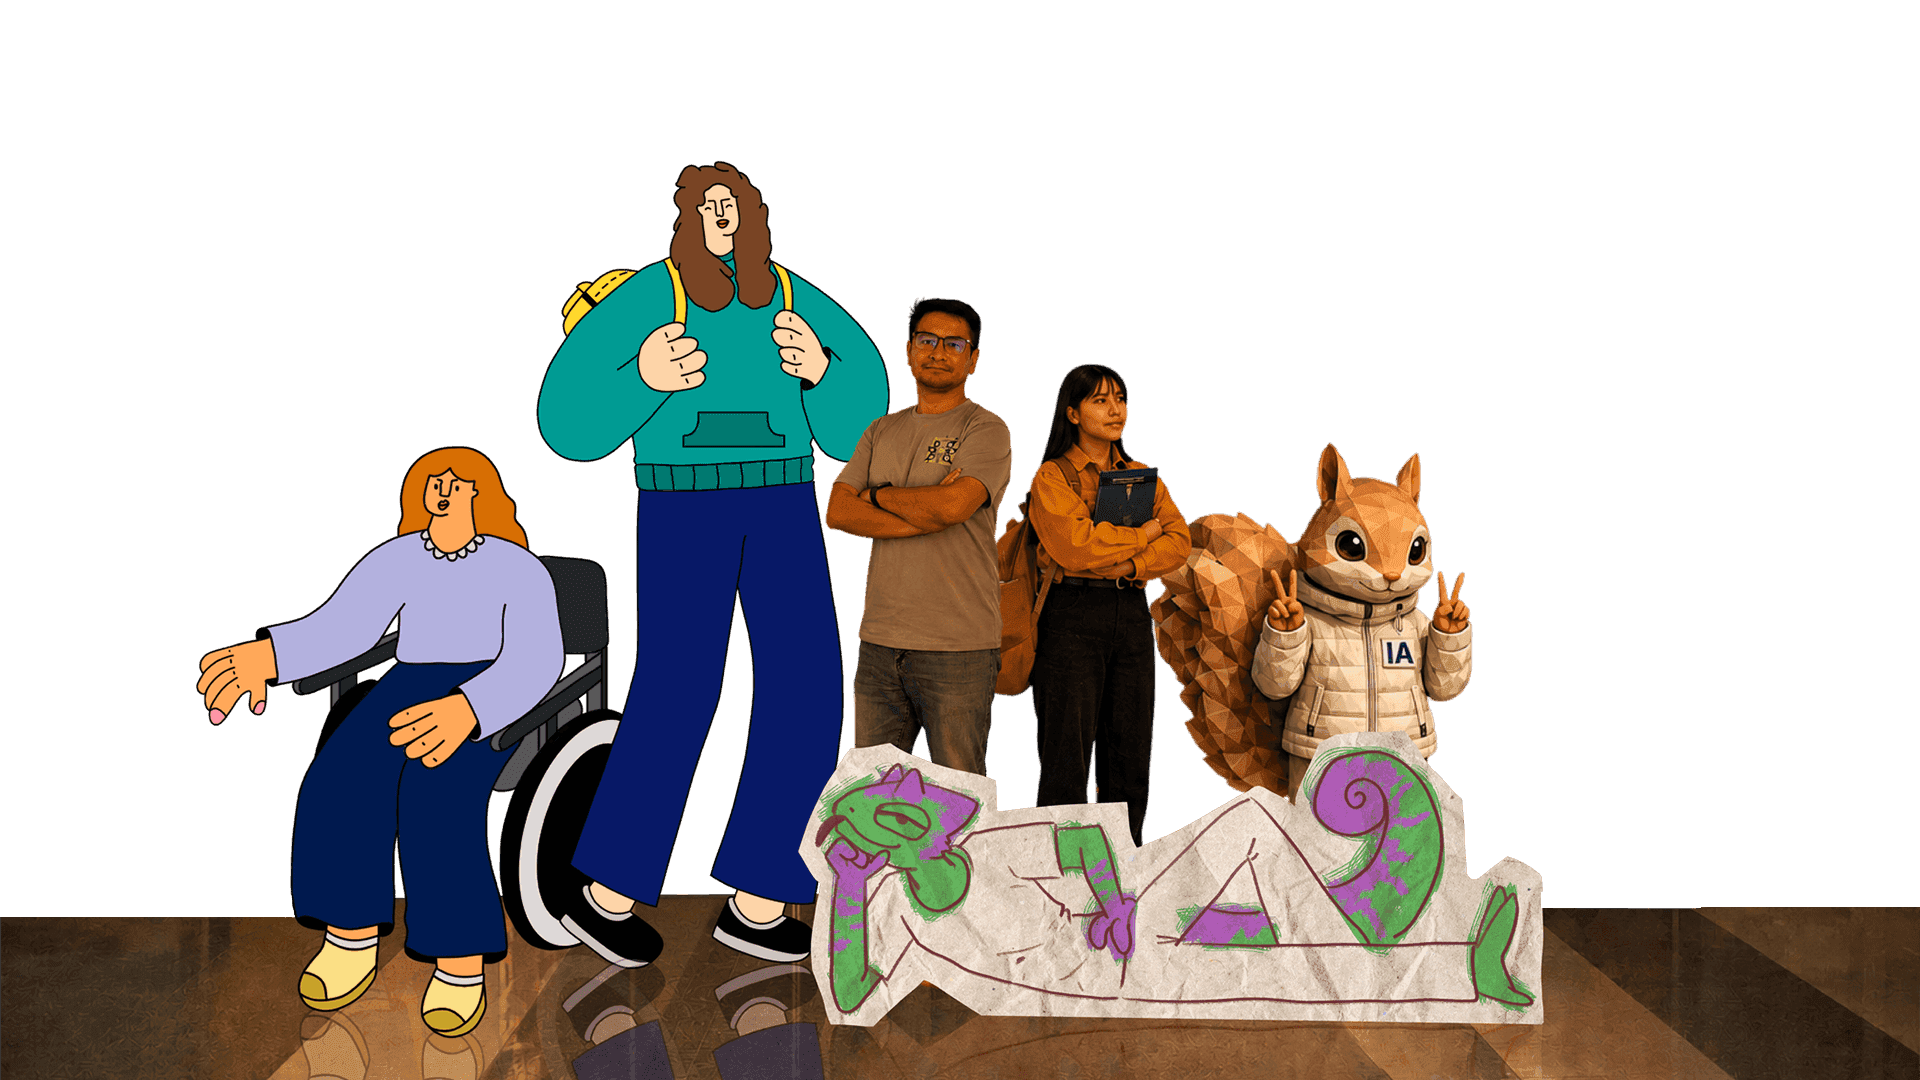
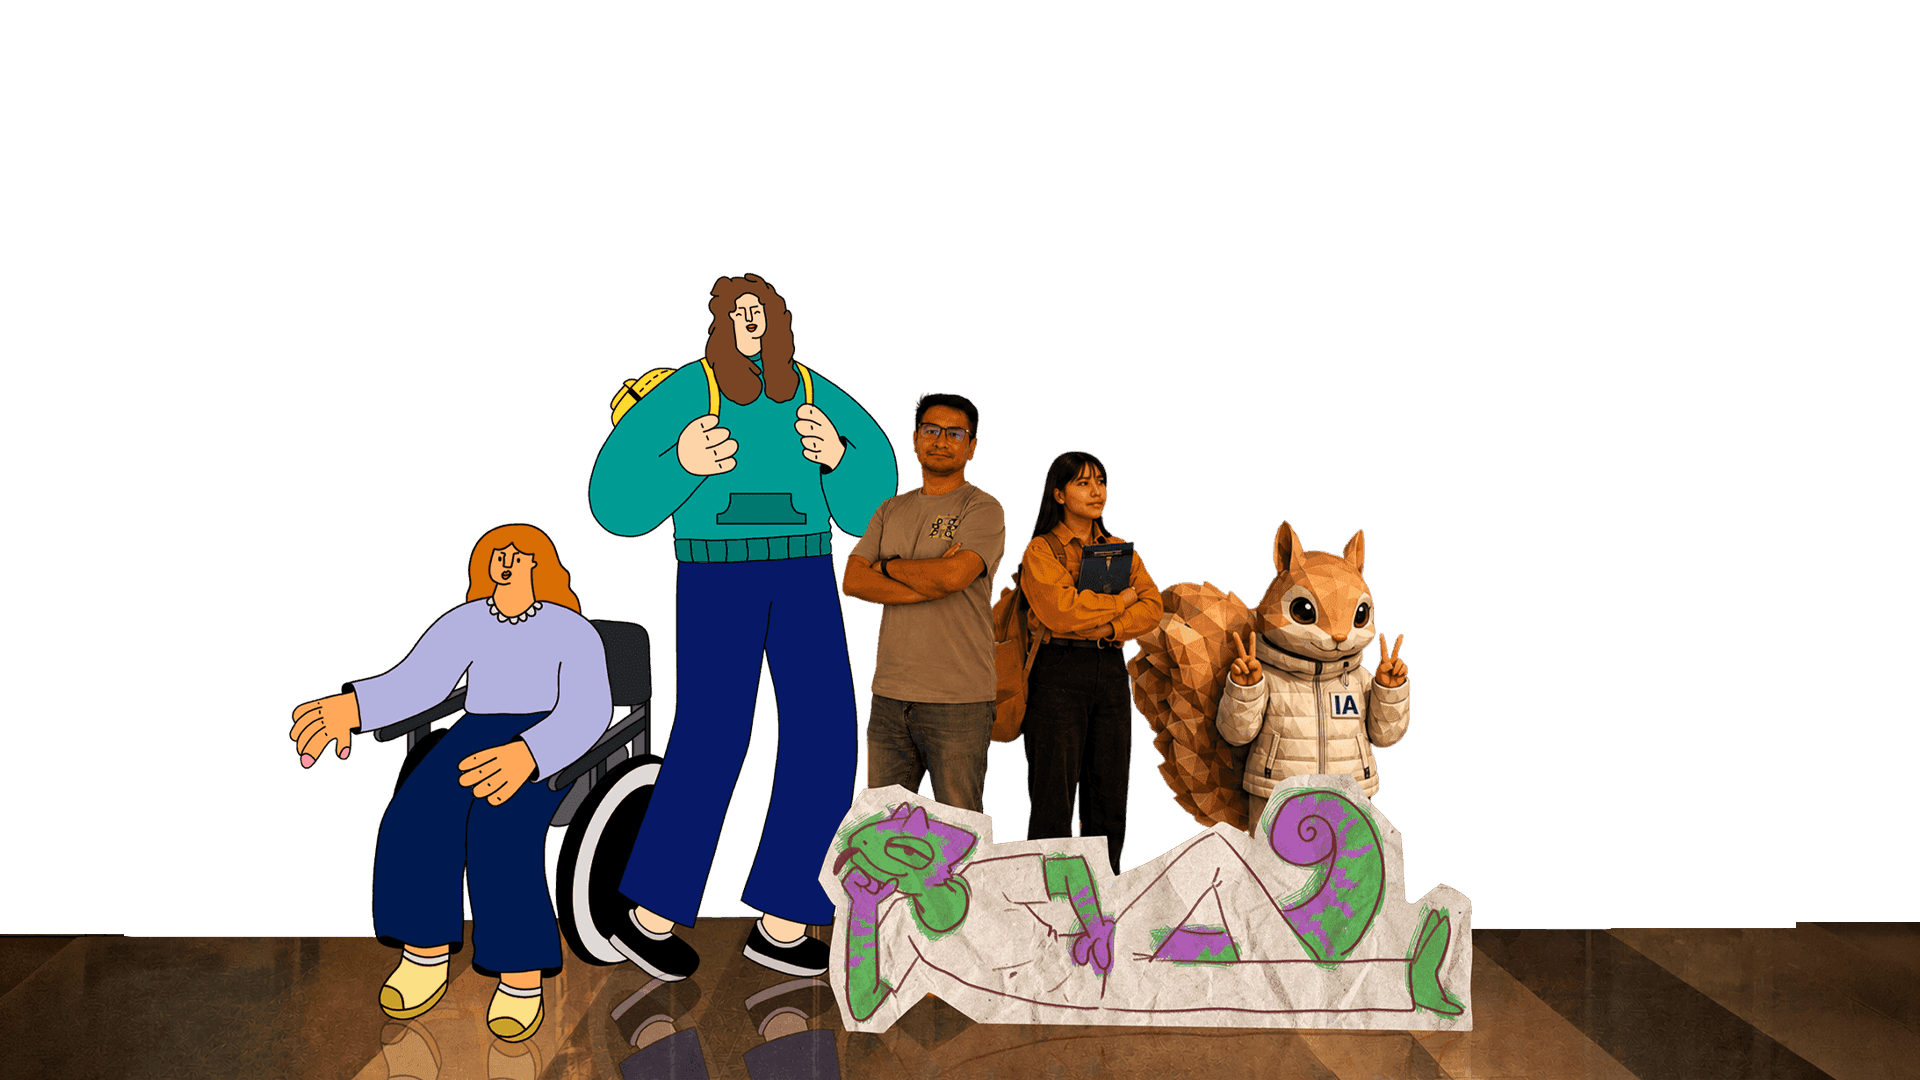
Quechua: adaptar tipografia, guionado y contenedores laterales para palabras largas aglutinantes

diff --git a/styles.css b/styles.css
@@ -32,12 +32,13 @@ p {
   font-weight: 500;
   line-height: 1.65;
   text-transform: none !important;
+  overflow-wrap: break-word;
 }
 h1, h2, h3 {
   margin: 0;
-  overflow-wrap: normal;
+  overflow-wrap: break-word;
   word-break: normal;
-  hyphens: none;
+  hyphens: manual;
 }
 h1, h2 {
   font-family: var(--display);
@@ -519,6 +520,10 @@ h3 {
   font-weight: 800;
   line-height: 1.15;
   cursor: pointer;
+  max-width: 100%;
+  white-space: normal;
+  text-align: center;
+  overflow-wrap: anywhere;
 }
 .button span,
 .download-button span { color: inherit; }
@@ -757,10 +762,109 @@ footer {
   transform: none;
   transition: none;
 }
+/* ========================================================
+   Adaptacion tipografica y de contenedores para Quechua (qu)
+   Evita que palabras aglutinantes largas desborden o invadan
+   contenedores laterales.
+   ======================================================== */
+html[lang="qu"] {
+  overflow-wrap: anywhere;
+}
+
+html[lang="qu"] * {
+  overflow-wrap: anywhere;
+}
+
+html[lang="qu"] h1,
+html[lang="qu"] h2,
+html[lang="qu"] h3,
+html[lang="qu"] h4 {
+  overflow-wrap: anywhere;
+  word-break: normal;
+  hyphens: auto;
+}
+
 html[lang="qu"] p,
-html[lang="qu"] .main-nav a,
-html[lang="qu"] .footer-location,
-html[lang="qu"] .contact-phone { hyphens: manual; }
+html[lang="qu"] a,
+html[lang="qu"] span,
+html[lang="qu"] li,
+html[lang="qu"] article,
+html[lang="qu"] summary,
+html[lang="qu"] .button,
+html[lang="qu"] .download-button,
+html[lang="qu"] .section-kicker,
+html[lang="qu"] .section-intro,
+html[lang="qu"] .content-card,
+html[lang="qu"] .feature-card,
+html[lang="qu"] .interaction-card,
+html[lang="qu"] .requirements-callout {
+  overflow-wrap: anywhere;
+  word-break: normal;
+  hyphens: auto;
+}
+
+html[lang="qu"] .purpose-grid h2 {
+  font-size: clamp(1.4rem, 2vw, 2.3rem);
+  letter-spacing: -.01em;
+}
+
+html[lang="qu"] .content-card h3,
+html[lang="qu"] .feature-card h3,
+html[lang="qu"] .interaction-card h3 {
+  font-size: clamp(1.1rem, 1.4vw, 1.55rem);
+  letter-spacing: normal;
+}
+
+html[lang="qu"] .requirements-title {
+  font-size: clamp(1.1rem, 1.35vw, 1.55rem);
+}
+
+html[lang="qu"] .purpose-grid article,
+html[lang="qu"] .formation-copy-grid > *,
+html[lang="qu"] .content-card,
+html[lang="qu"] .feature-card,
+html[lang="qu"] .interaction-card,
+html[lang="qu"] .requirements-callout,
+html[lang="qu"] .postgraduate-main,
+html[lang="qu"] .postgraduate-programs,
+html[lang="qu"] .footer-name,
+html[lang="qu"] .footer-contact {
+  min-width: 0;
+  max-width: 100%;
+}
+
+html[lang="qu"] .button,
+html[lang="qu"] .download-button {
+  white-space: normal;
+  text-align: center;
+  max-width: 100%;
+  line-height: 1.25;
+}
+
+@media (max-width: 1120px) {
+  html[lang="qu"] .titulation-grid {
+    grid-template-columns: repeat(2, minmax(0, 1fr));
+  }
+  html[lang="qu"] .titulation-grid .content-card:last-child {
+    grid-column: 1 / span 2;
+  }
+  html[lang="qu"] .split-panels {
+    grid-template-columns: repeat(2, minmax(0, 1fr));
+  }
+  html[lang="qu"] .split-panels .interaction-card:last-child {
+    grid-column: 1 / span 2;
+  }
+  html[lang="qu"] .admission-grid {
+    grid-template-columns: 1fr 1fr;
+  }
+  html[lang="qu"] .admission-grid .content-card:nth-child(3) {
+    grid-column: auto;
+  }
+  html[lang="qu"] .requirements-callout {
+    grid-column: 1 / span 2;
+    grid-row: auto;
+  }
+}
 
 @media (max-width: 1100px) {
   .professor-card { flex-basis: calc((100% - 48px) / 3); }

diff --git a/content-loader.js b/content-loader.js
@@ -149,11 +149,7 @@ function applyQuechuaWordBreaks(language) {
 
   textNodes.forEach((node) => {
     const cleanText = node.nodeValue.replaceAll(SOFT_HYPHEN, "");
-    if (node.parentElement?.closest("h1, h2, h3")) {
-      node.nodeValue = cleanText;
-      return;
-    }
-    const minimumLength = 12;
+    const minimumLength = 10;
     node.nodeValue = language === "qu"
       ? cleanText.replace(
           /[A-Za-zÁÉÍÓÚÜÑáéíóúüñ'’]+/g,
